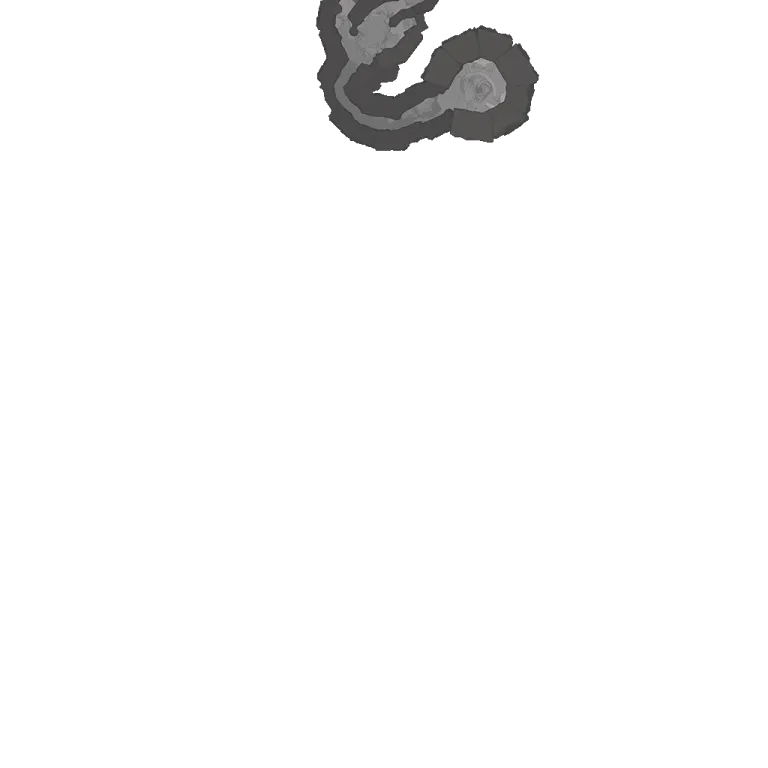
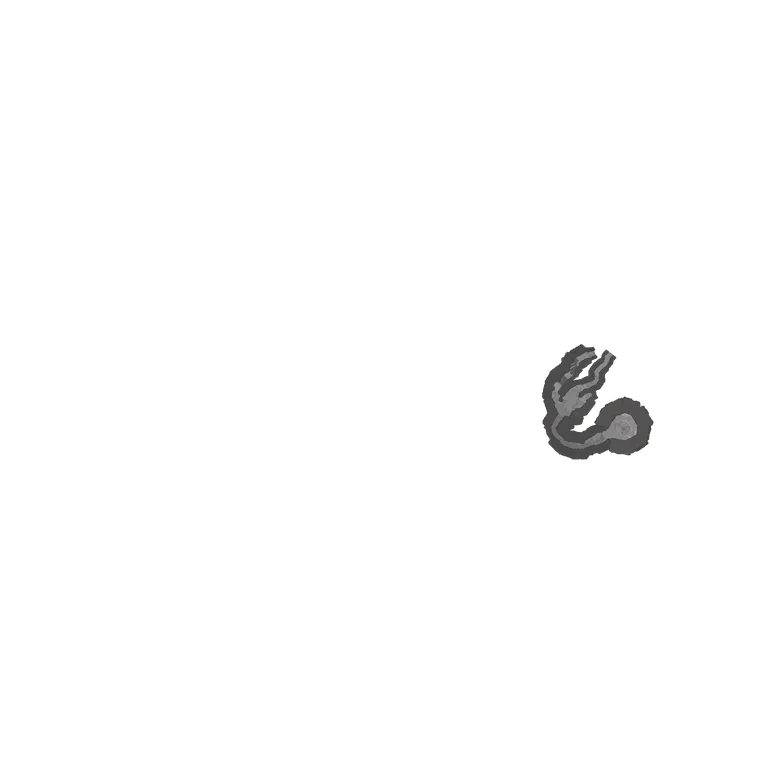
iPhone 사파리 강제 종료 수정: 축소 단계별 타일(피라미드) 추가
축소 시 768px 원본 타일 수십 장을 줄여 그리던 구조 때문에 iOS에서 메모리 초과로 페이지가 종료됨.
줌 -1~-3 단계 타일을 미리 만들어 화면에 필요한 타일만 2~4장 불러오도록 변경.

Claude-Session: https://claude.ai/code/session_01P2iRnHesUX7g9uDaqSCxqK

Changed region(s): [[0.4062, 0.0, 0.7188, 0.2188], [0.6875, 0.4375, 0.875, 0.5938]]

diff --git a/app.js b/app.js
@@ -88,7 +88,7 @@
     createTile(c, done) {
       const img = document.createElement('img');
       img.alt = ''; img.setAttribute('role', 'presentation');
-      const key = `${c.x},${c.y}`; const dir = this.options.dir;
+      const key = c.z === 0 ? `${c.x},${c.y}` : `${c.z}|${c.x},${c.y}`; const dir = this.options.dir;
       if (!Pack.has(dir, key)) { img.src = BLANK; setTimeout(() => done(null, img), 0); return img; }
       Pack.tile(dir, key).then((u) => {
         img.onload = () => { done(null, img); URL.revokeObjectURL(u); };
@@ -102,7 +102,7 @@
   /* ---------- map / tiles ---------- */
   function tileLayer(t, pane, className) {
     return new PackedLayer({
-      dir: tileDir(t.src), tileSize: t.tileSize, minNativeZoom: 0, maxNativeZoom: 0, minZoom: -3, maxZoom: 2,
+      dir: tileDir(t.src), tileSize: t.tileSize, minNativeZoom: -3, maxNativeZoom: 0, minZoom: -3, maxZoom: 2,
       noWrap: true, keepBuffer: 2, updateWhenZooming: false, pane, className,
     });
   }
